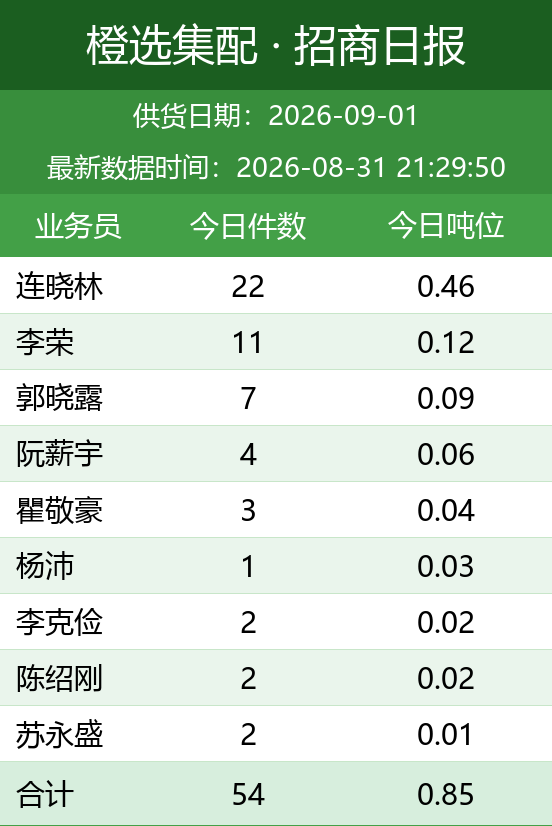
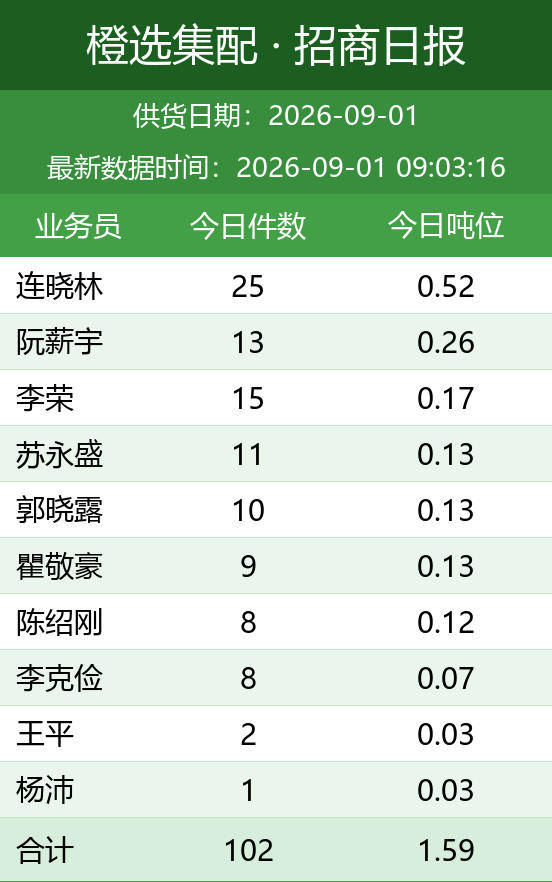
自动更新日报图片

diff --git a/index.html b/index.html
@@ -11,7 +11,7 @@ img { max-width: 100%; border: 1px solid #e5e5e5; margin-bottom: 24px; display: 
 </style>
 </head>
 <body>
-<h1>橙选集配日报图片（20260831_212953）</h1>
+<h1>橙选集配日报图片（20260901_090318）</h1>
 <img src="bd_latest.png" alt="BD 日报">
 <img src="wh_latest.png" alt="城市仓日报">
 <img src="zs_latest.png" alt="招商日报">
